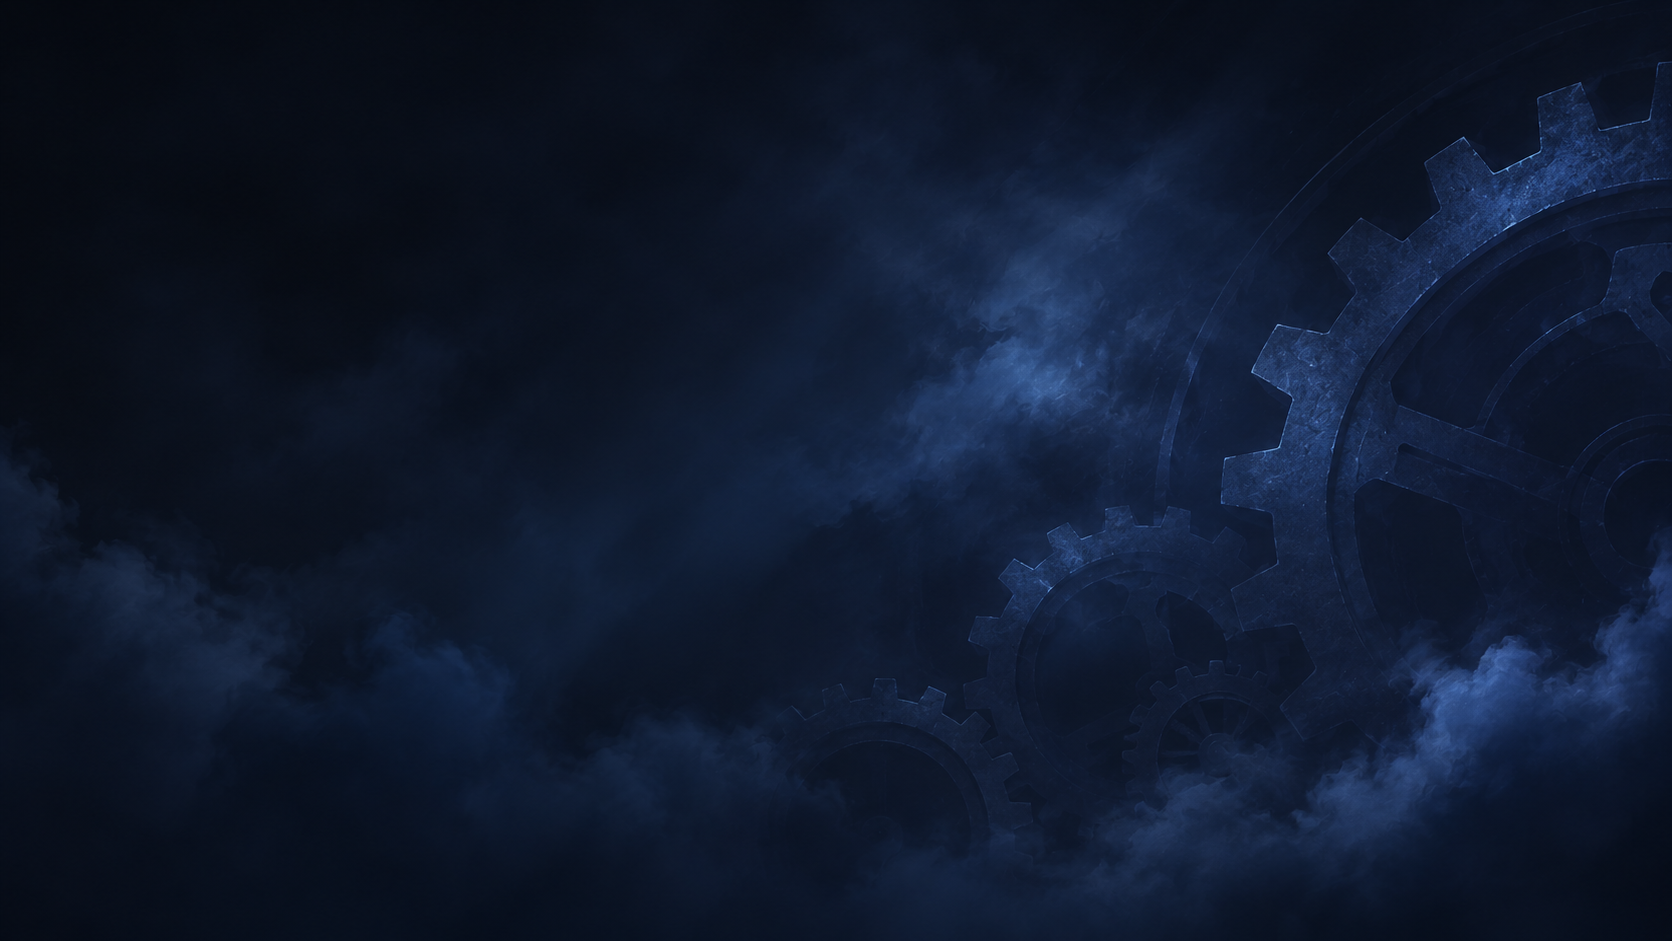
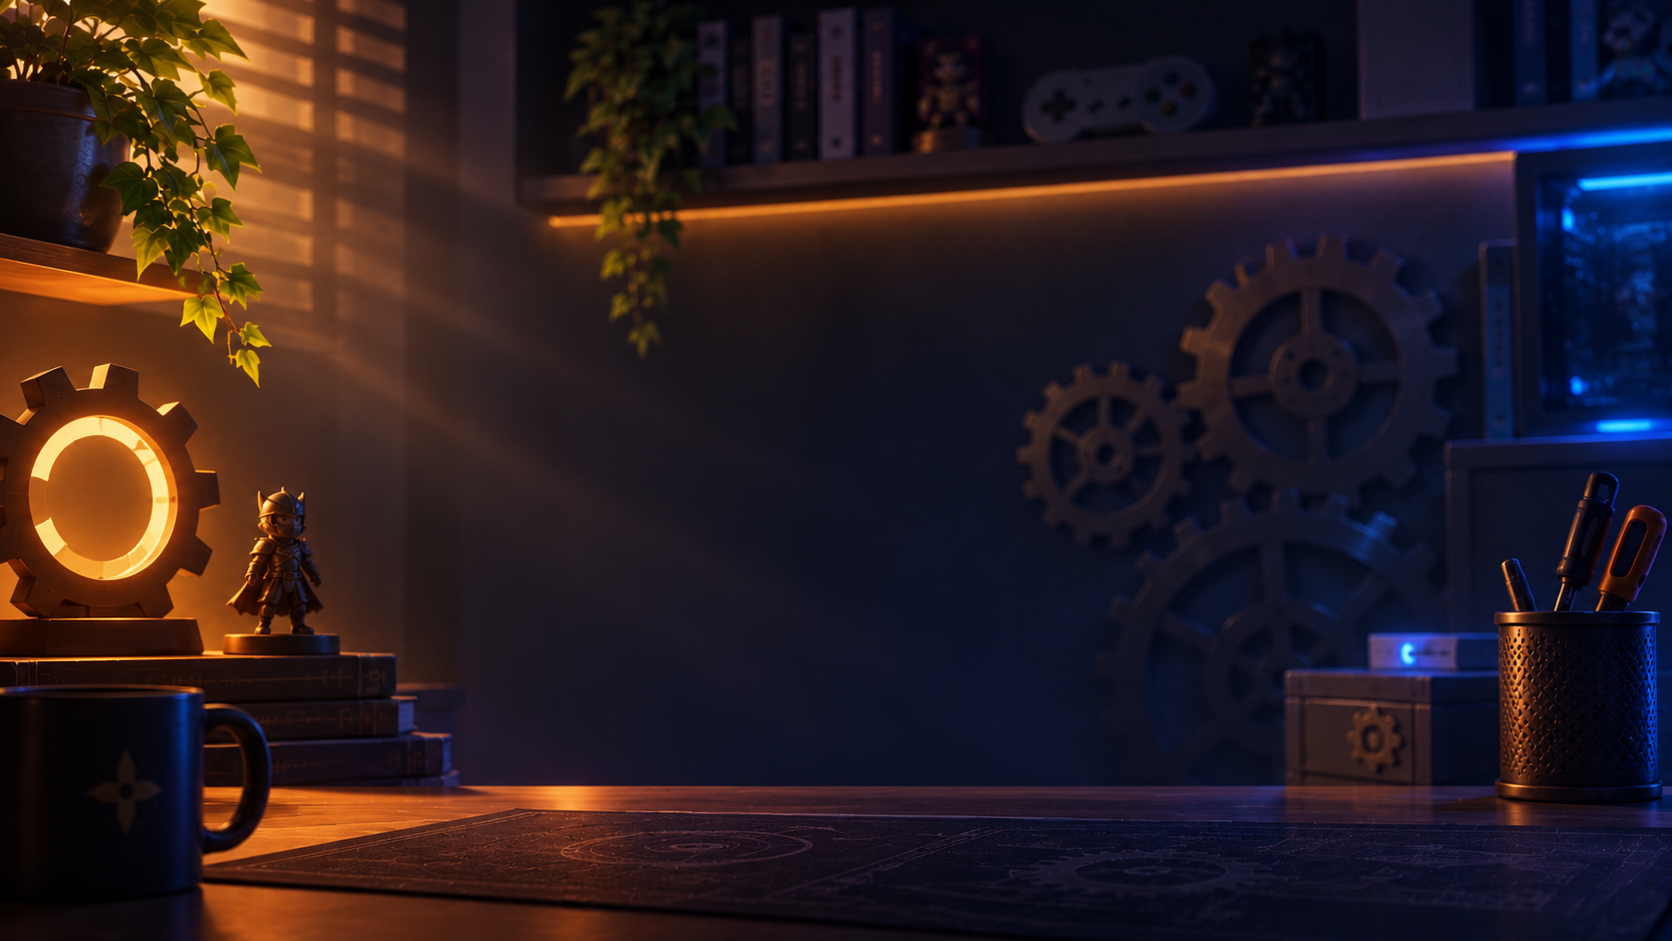
"Em cima": own background for "Mostrar todos" / "Mostrar menos"
With "Mostrar todos os jogos" or "Mostrar menos" focused, the Home
background shows the owner's show-all-bg.png, one image for both so
going from one to the other does not fade. The Settings shortcut's
image is replaced by settings-bg2.png.

diff --git a/src/renderer/src/screens/home/useCoverFocus.tsx b/src/renderer/src/screens/home/useCoverFocus.tsx
@@ -32,6 +32,8 @@ const TRAILING_LESS = -3
 export type TrailingKind = 'more' | 'less'
 const trailingKey = (kind: TrailingKind): number =>
   kind === 'more' ? TRAILING_MORE : TRAILING_LESS
+/** The art layer of the item after the last game: one image for both, so no fade between them. */
+const TRAILING_ART = -4
 
 /** An item of the row by its game id (LEADING_ART for index -1), and where it was then. */
 interface Item {
@@ -63,7 +65,9 @@ export function useCoverFocus(
   /** The background art of the item at index -1 (D-32: the Settings shortcut), if any. */
   leadingArt: string | null = null,
   /** The item drawn after the last game, if any. */
-  trailing: TrailingKind | null = null
+  trailing: TrailingKind | null = null,
+  /** Its background art ("Mostrar todos" and "Mostrar menos" share one), if any. */
+  trailingArt: string | null = null
 ): CoverFocus {
   const homeArt = shownHomeArt(useHomeArt().settings, useHomeCovers().settings.position)
   const manager = useFocusManager()
@@ -126,14 +130,19 @@ export function useCoverFocus(
   }, [firstId, games, manager])
 
   const byId = new Map(games.map((game) => [game.id, game]))
-  // A layer is a game id, or LEADING_ART for the item at index -1; both resolve to a URL.
+  // A layer is a game id, LEADING_ART for the item at index -1 or TRAILING_ART for the one after
+  // the last game; all resolve to a URL.
   const artUrl = (id: number): string | null | undefined => {
     if (id === LEADING_ART) return leadingArt
+    if (id === TRAILING_ART) return trailingArt
     const game = byId.get(id)
     return game ? homeArtUrl(game) : undefined
   }
-  const artIdAt = (i: number): number | undefined =>
-    i === -1 ? (leadingArt ? LEADING_ART : undefined) : games[i]?.id
+  const artIdAt = (i: number): number | undefined => {
+    if (i === -1) return leadingArt ? LEADING_ART : undefined
+    if (i === games.length && trailing) return trailingArt ? TRAILING_ART : undefined
+    return games[i]?.id
+  }
 
   const showArt = (id: number | undefined): void => {
     if (id === undefined) return

diff --git a/tests/renderer/home-spotlight.test.tsx b/tests/renderer/home-spotlight.test.tsx
@@ -221,6 +221,37 @@ describe('"Em cima" panel (D-29)', () => {
     await waitFor(() => expect(images().at(-1)).toMatch(/settings\.png$/))
   })
 
+  it('shows its own image behind the Home on "Mostrar todos" and "Mostrar menos"', async () => {
+    const many = Array.from({ length: 11 }, (_, i) =>
+      summary(i + 1, `Jogo ${i + 1}`, { timeLastPlayed: `2026-11-${10 + i}T20:00:00Z` })
+    )
+    installFakeApi(many, {
+      settings: {
+        get: async () =>
+          settingsInfo({
+            homeArt: { enabled: true, blur: 0, dim: 10 },
+            homeCovers: { size: 74, gap: 35, position: 'top', limited: true }
+          })
+      }
+    })
+    render(<App />)
+    const images = (): (string | null)[] =>
+      Array.from(document.querySelectorAll('.home-art__image')).map((img) =>
+        img.getAttribute('src')
+      )
+    const more = await screen.findByRole('button', { name: 'Mostrar todos os jogos' })
+    act(() => {
+      fireEvent.contextMenu(more)
+    })
+    await waitFor(() => expect(images().at(-1)).toMatch(/show-all\.png$/))
+    act(() => more.click())
+    const less = await screen.findByRole('button', { name: 'Mostrar menos' })
+    act(() => {
+      fireEvent.contextMenu(less)
+    })
+    await waitFor(() => expect(images().at(-1)).toMatch(/show-all\.png$/))
+  })
+
   it('shows the quick settings under the Settings shortcut, and changes them at once (D-33)', async () => {
     const setHomeDirectLaunch = vi.fn<EquonApi['settings']['setHomeDirectLaunch']>(
       async (homeDirectLaunch) => ({ ok: true, data: settingsInfo({ homeDirectLaunch }) })

diff --git a/src/renderer/src/screens/home/TopHome.tsx b/src/renderer/src/screens/home/TopHome.tsx
@@ -1,5 +1,6 @@
 import type { GameSummary } from '../../../../shared/ipc/contract'
 import settingsBackground from '../../assets/backgrounds/settings.png'
+import showAllBackground from '../../assets/backgrounds/show-all.png'
 import libraryIcon from '../../assets/icons/library.svg'
 import settingsIcon from '../../assets/icons/settings.svg'
 import { useNavigation } from '../../app/navigation'
@@ -84,6 +85,8 @@ export function TopHome({
               kind: more.expanded ? 'less' : 'more',
               label: more.expanded ? t.home.showLess : t.home.showAll,
               icon: libraryIcon,
+              // The owner's image behind the Home while it is focused, both ways.
+              art: showAllBackground,
               onConfirm: more.onConfirm
             }
           : undefined

diff --git a/src/renderer/src/screens/home/CoverShelf.tsx b/src/renderer/src/screens/home/CoverShelf.tsx
@@ -66,6 +66,8 @@ export function CoverShelf({
     kind: TrailingKind
     label: string
     icon: string
+    /** The Home background while it is focused. */
+    art?: string
     onConfirm: () => void
   }
   leading?: {
@@ -80,7 +82,13 @@ export function CoverShelf({
   }
 }): React.JSX.Element {
   const covers = shownCovers(useHomeCovers().settings)
-  const focus = useCoverFocus(games, backdropTarget, leading?.art ?? null, trailing?.kind ?? null)
+  const focus = useCoverFocus(
+    games,
+    backdropTarget,
+    leading?.art ?? null,
+    trailing?.kind ?? null,
+    trailing?.art ?? null
+  )
   const focusedGame = games[focus.infoIndex]
   return (
     <div

diff --git a/docs/ARCHITECTURE.md b/docs/ARCHITECTURE.md
@@ -530,7 +530,7 @@ Whether to offer a manual "refresh metadata" action for a single game is not dec
 
 ### 3.31 D-32 — Settings shortcut on the "Em cima" shelf (Accepted, after Phase 8)
 
-**Owner decisions (2026-11-12):** in "Em cima" only, the shelf starts with a shortcut to Configurações, drawn as a cover: a dark, slightly see-through square (`--color-background` at 75%) with the gear icon of the Sistema tab in the middle, after the PS5 home. The focus still starts on the first game, which is now the second item. Focusing the shortcut makes it the large item, like a cover; the name says "Configurações" and the panel under the shelf (D-29) is hidden, as there is no game. With the background art on (D-25), the Home then shows the owner's own image (`design/settings-bg.png`, made by the owner with ChatGPT, so it is the owner's to publish; copied to `assets/backgrounds/settings.png`) with the same blur, darkening and crossfade as a game's art (owner decision, 2026-11-12). A opens Settings.
+**Owner decisions (2026-11-12):** in "Em cima" only, the shelf starts with a shortcut to Configurações, drawn as a cover: a dark, slightly see-through square (`--color-background` at 75%) with the gear icon of the Sistema tab in the middle, after the PS5 home. The focus still starts on the first game, which is now the second item. Focusing the shortcut makes it the large item, like a cover; the name says "Configurações" and the panel under the shelf (D-29) is hidden, as there is no game. With the background art on (D-25), the Home then shows the owner's own image (`design/settings-bg.png`, made by the owner with ChatGPT, so it is the owner's to publish; copied to `assets/backgrounds/settings.png`) with the same blur, darkening and crossfade as a game's art (owner decision, 2026-11-12). It was replaced by `design/settings-bg2.png` (owner decision, 2026-11-20). "Mostrar todos os jogos" and "Mostrar menos" (§3.30) show one image of their own the same way, `design/show-all-bg.png` (owner's, 2026-11-20; copied to `assets/backgrounds/show-all.png`), shared so going from one to the other does not fade. A opens Settings.
 
 **Code.** `CoverShelf` takes a `leading` shortcut drawn at index -1, before the games, so the shelf's transforms place it like any cover (`--rel`); `useCoverFocus` accepts -1 as the focused index, and an art URL for it, kept as its own background layer. In "Em cima", down on a cover without a panel row now does nothing, so the focus never wanders off to the shortcut or another cover.
 

diff --git a/docs/DESIGN_SYSTEM.md b/docs/DESIGN_SYSTEM.md
@@ -62,6 +62,9 @@ então termina com "Mostrar todos os jogos", e com todos à mostra, com
 "Mostrar menos"), pela última sessão (mais
 recente primeiro). A regra é fixa; o usuário não altera a ordem nem os
 filtros do Início.
+Com "Mostrar todos os jogos" ou "Mostrar menos" em foco, o fundo da Home
+mostra uma imagem própria (estante de jogos, `show-all-bg.png`), a mesma
+para os dois, com o desfoque e o escurecimento da arte dos jogos.
 
 Os cards ficam numa fila horizontal, e o card em foco fica no centro da
 tela, com o nome e o tempo de jogo embaixo dele (decisão do dono do
@@ -249,7 +252,7 @@ depois que o foco para por 150 ms.
     atalho para as Configurações (D-32), desenhado como uma capa: um
     quadrado escuro meio transparente com a engrenagem no meio; o foco
     continua começando no primeiro jogo. Com ele em foco, o fundo da Home
-    mostra uma imagem própria (engrenagens azuladas, `settings-bg.png`),
+    mostra uma imagem própria (engrenagens e luz âmbar, `settings-bg2.png`),
     com o mesmo desfoque e escurecimento da arte dos jogos. Embaixo dela,
     no lugar do painel do jogo, aparecem as "Configurações rápidas" (D-33),
     só com o título, sem texto de explicação: "Atualizar biblioteca" (com "Atualizada às 18:02", ou o motivo se a última falhou), "Tela
